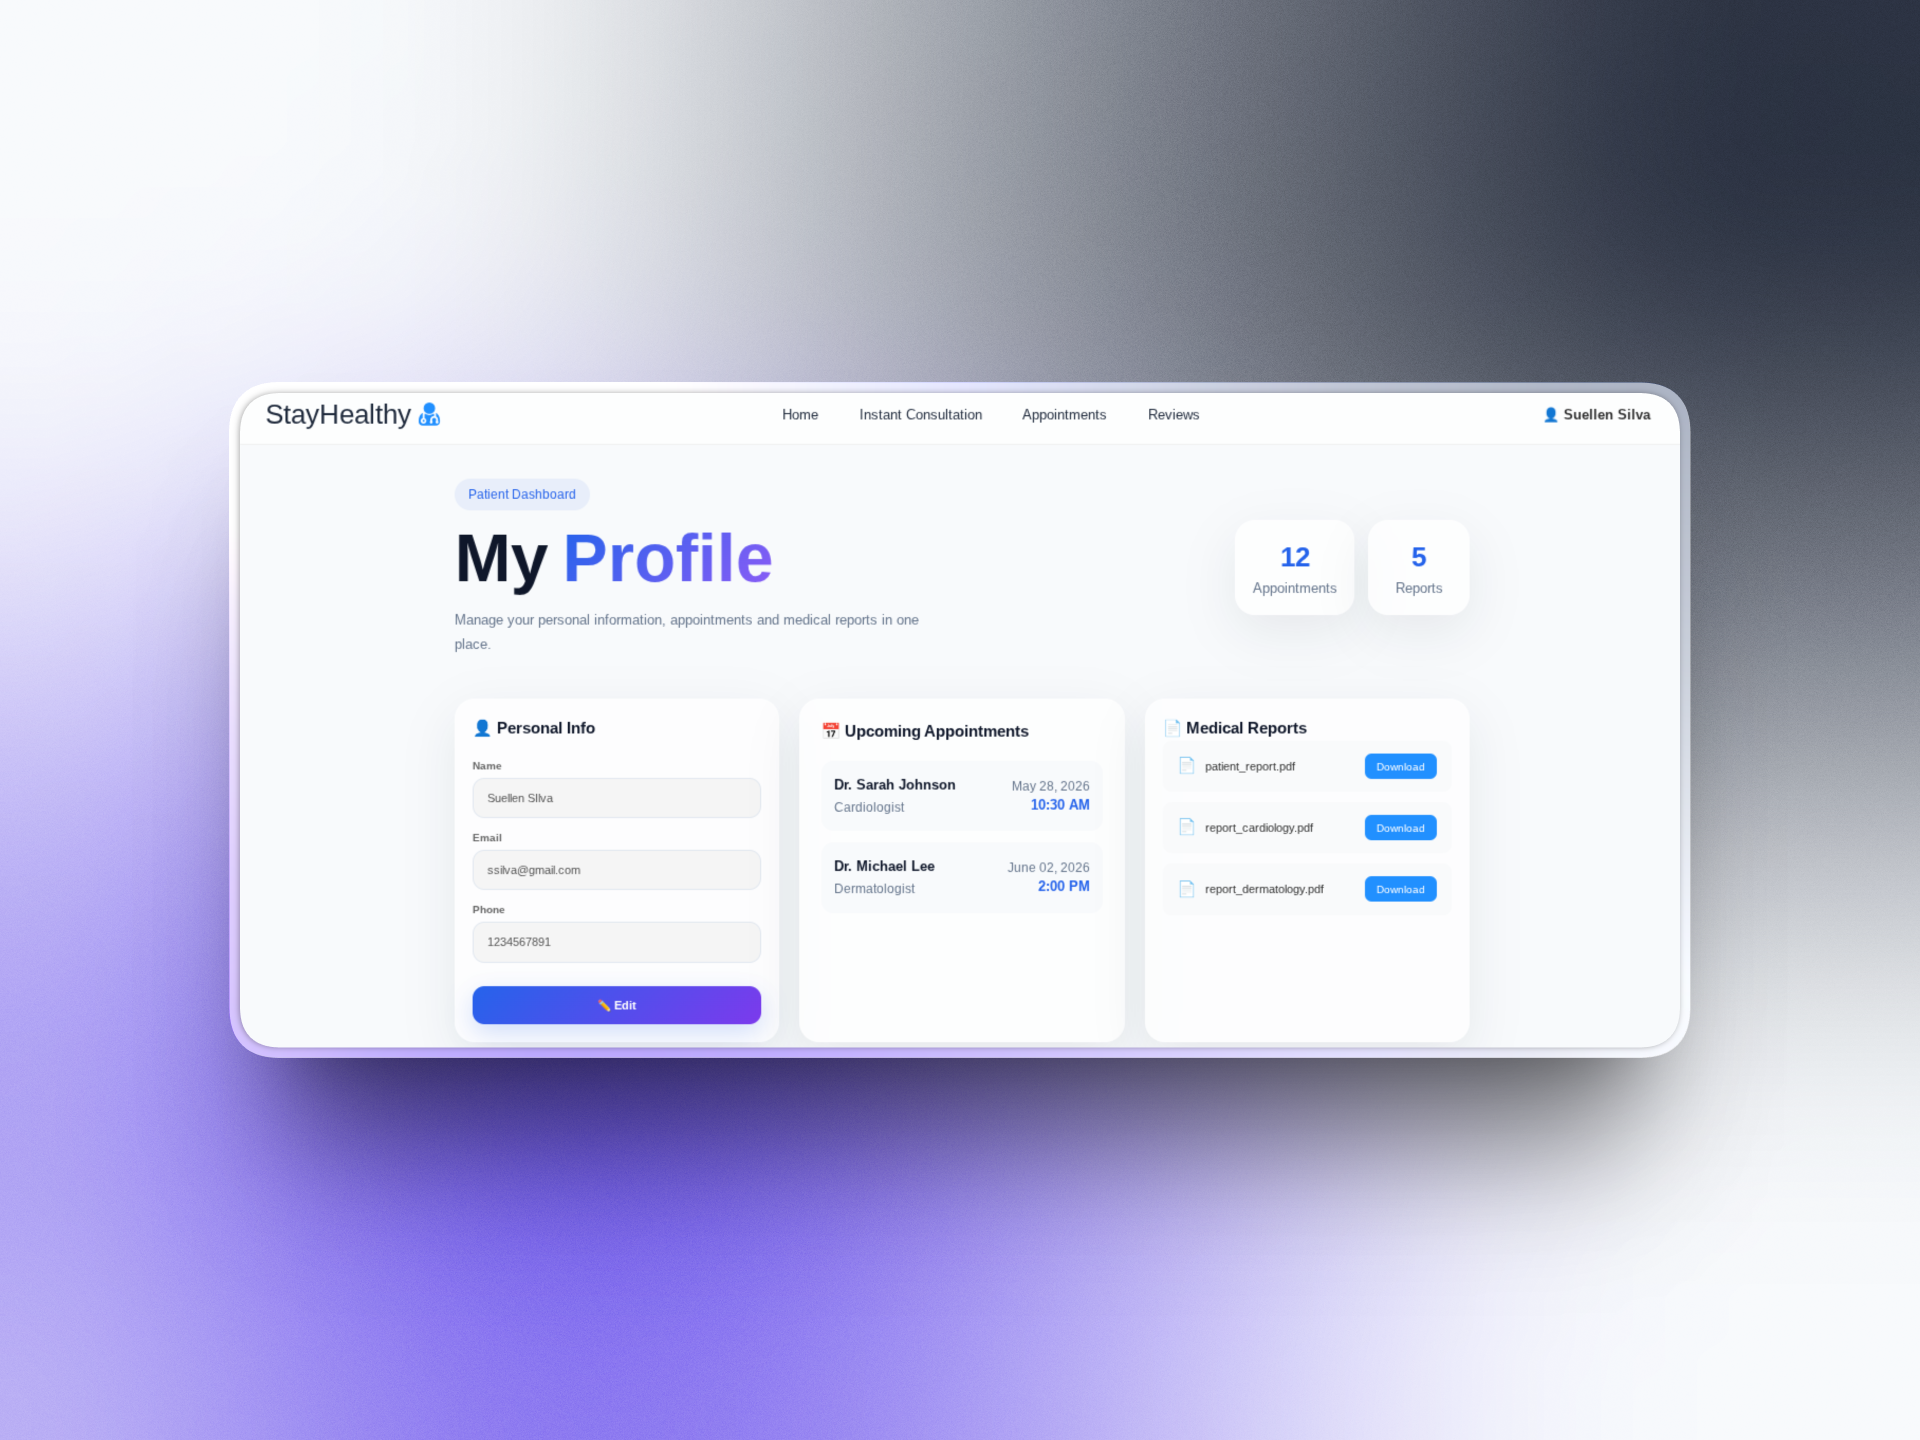
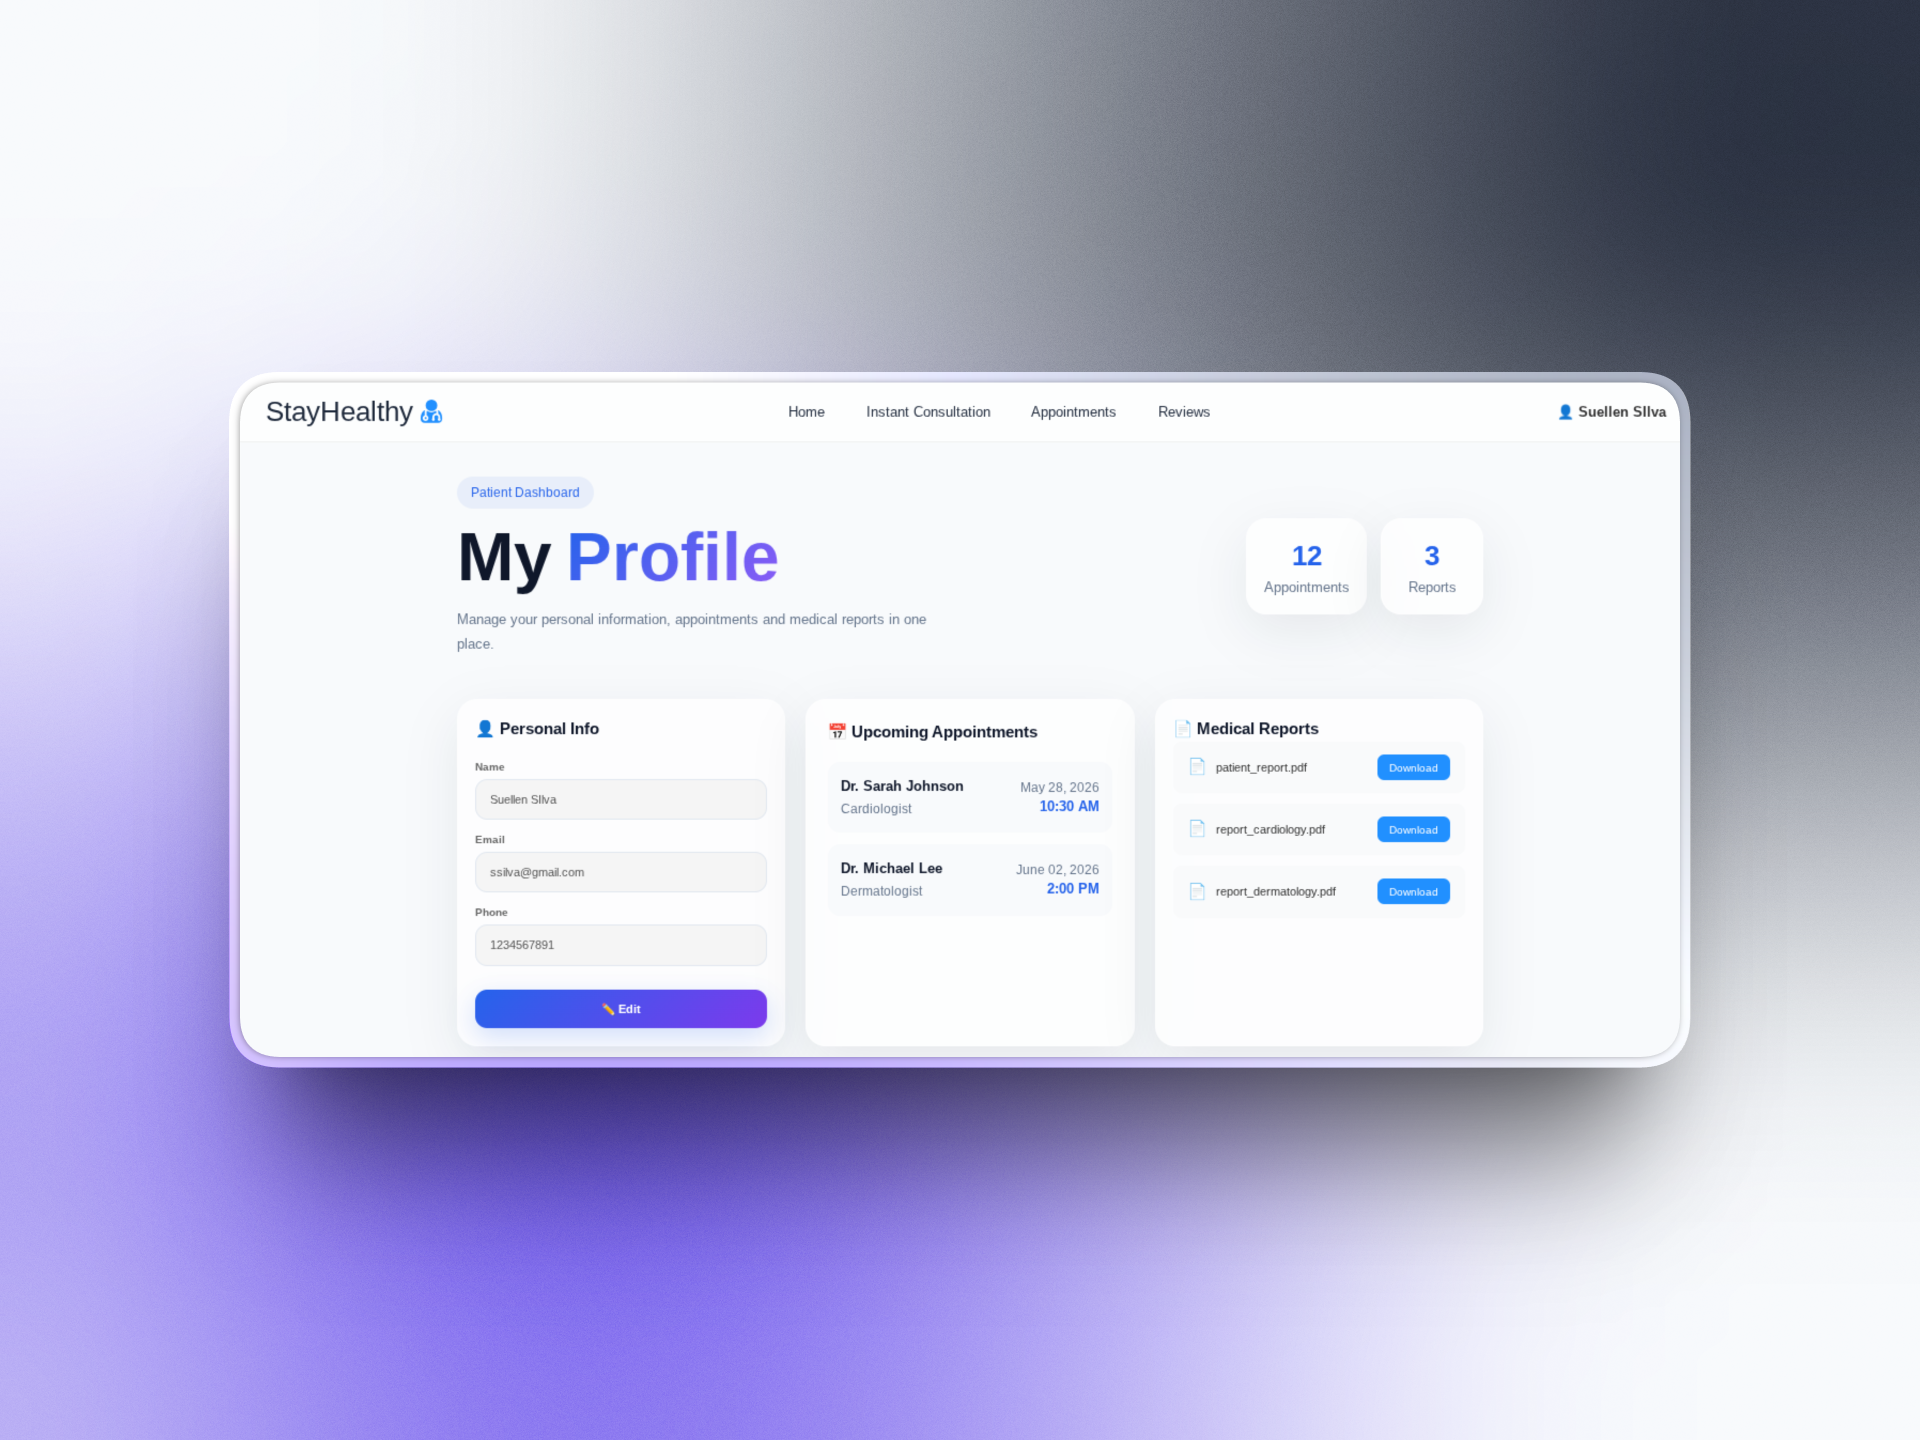
screenshot update

diff --git a/client/src/Components/ProfilePage/ProfilePage.jsx b/client/src/Components/ProfilePage/ProfilePage.jsx
@@ -37,7 +37,7 @@ const ProfilePage = () => {
           </div>
 
           <div className="stat-card">
-            <h3>5</h3>
+            <h3>3</h3>
             <span>Reports</span>
           </div>
 

diff --git a/client/src/Components/Landing_Page/LandingPage.css b/client/src/Components/Landing_Page/LandingPage.css
@@ -228,6 +228,7 @@ body {
 @media (max-width: 900px) {
 
   .hero-content {
+    margin-top: 5px;
     grid-template-columns: 1fr;
     text-align: center;
   }

diff --git a/README.md b/README.md
@@ -218,3 +218,19 @@ Seamless multi-step booking flow designed to simplify healthcare scheduling and 
   <img src="./screenshots/BookingFlow.png" width="800"/>
 </p>
 
+### Mobile Responsiveness
+
+#### Landing Page
+<p align="center">
+  <img src="./screenshots/ResponsiveLanding.png" width="800"/>
+</p>
+
+#### Appointment Booking Experience
+<p align="center">
+  <img src="./screenshots/ResponsiveBooking.png" width="800"/>
+</p>
+
+#### Patient Dashboard
+<p align="center">
+  <img src="./screenshots/ResponsiveDashboard.png" width="800"/>
+</p>
